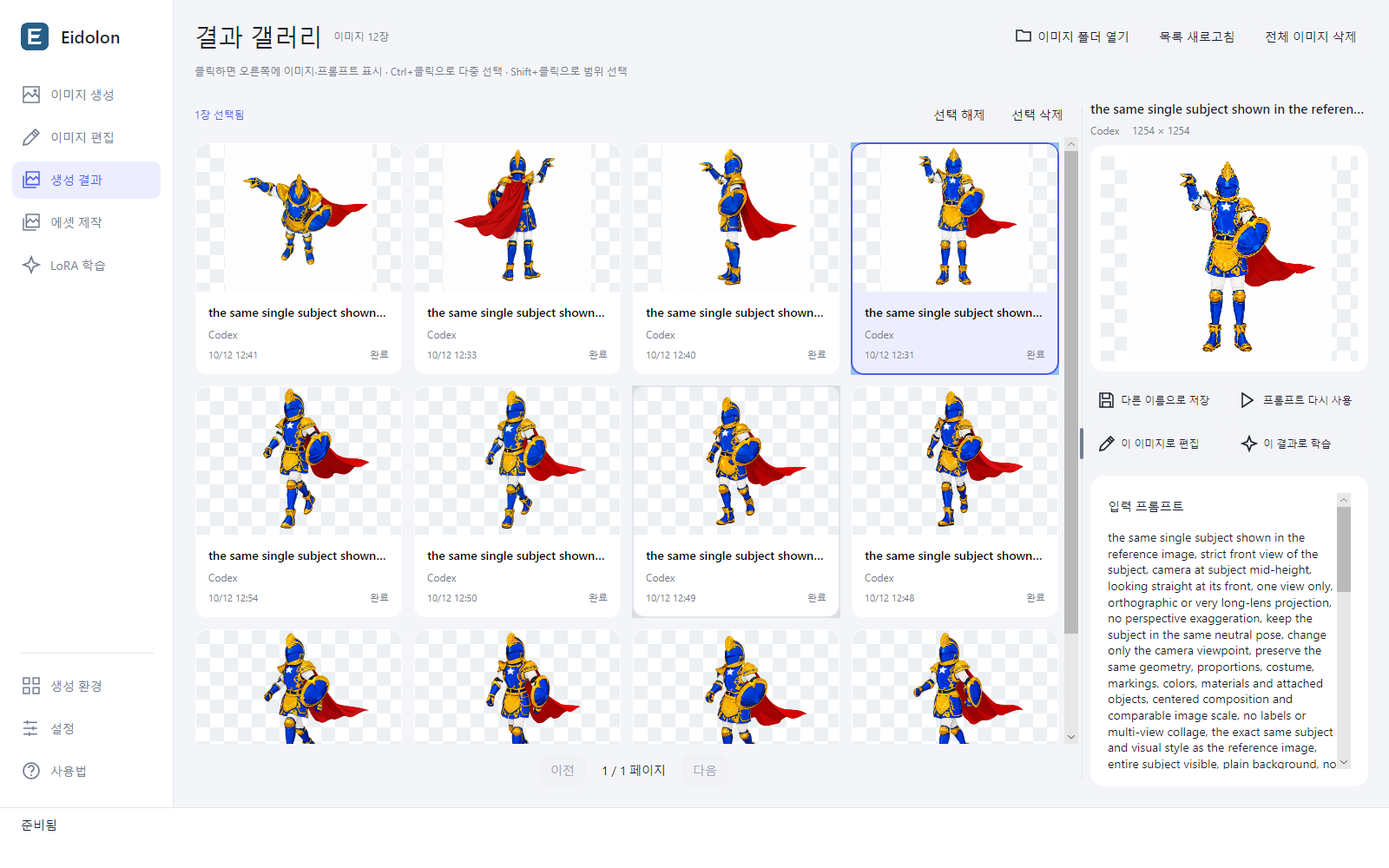
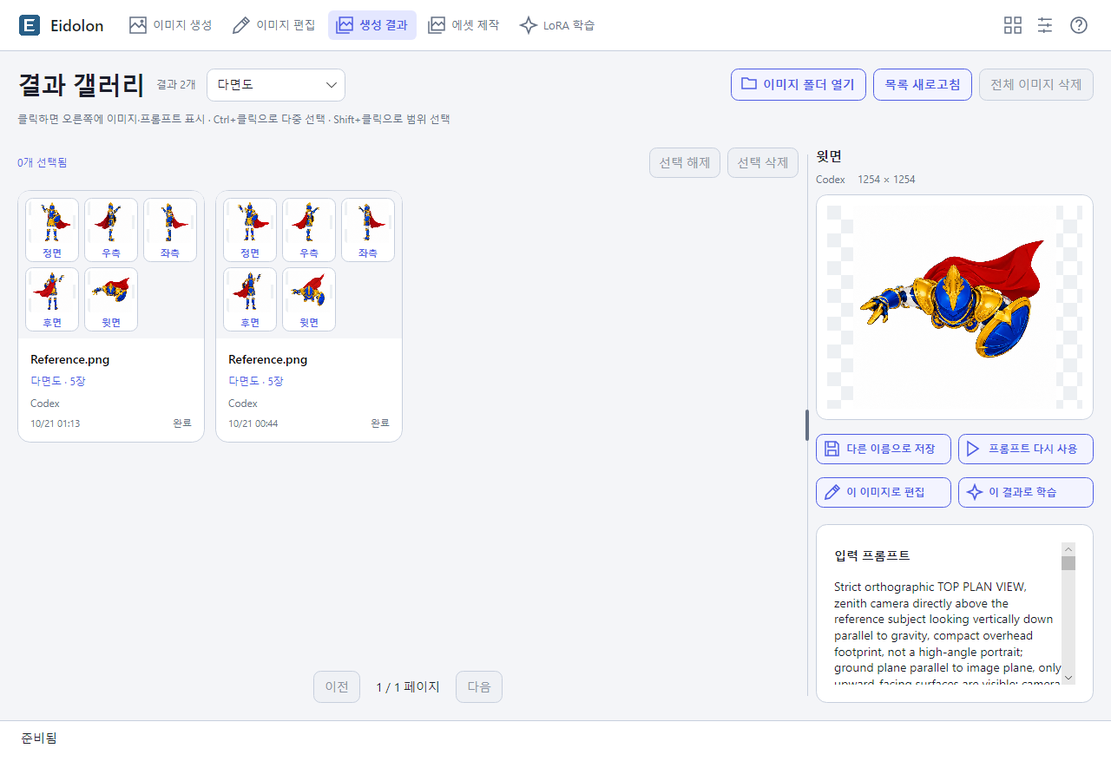
다면도 사용법과 품질 검증·아키텍처 문서 갱신

diff --git a/Docs/AssetCreation.md b/Docs/AssetCreation.md
@@ -1,87 +1,67 @@
-# 연관 이미지 에셋 제작
+# 다면도 에셋 제작
 
-에셋 제작 탭은 기준 이미지 한 장에서 스프라이트 프레임 또는 모델링 참고용 사면도 초안을 만든다. 생성 환경에 저장한 ComfyUI 또는 Codex 방식으로 기준 이미지와 항목별 설명을 전달한다. 대상의 외형 유지, 자연스러운 반복 동작, 시점 간 형태·치수의 정합성을 보장하는 기능은 아니다. 실제 3D 모델을 출력하지 않는다.
+에셋 제작은 기준 이미지 한 장에서 정면·우측·좌측·후면·윗면의 5방향 이미지를 만든다. 저장된 ComfyUI 또는 Codex 생성 방식과 공통 지침을 사용한다. 실제 3D 모델을 출력하지 않으며 이미지별 외형과 시점의 정확성은 생성 결과로 확인한다.
 
 ## 사용자 흐름
 
-처음 열 때는 사면도가 기본 선택된다. 왼쪽에서 기준 이미지를 선택하고 제작 종류를 고른다. 대상 설명과 동작 설명은 선택 입력이다. 설명 없이 사면도를 요청하면 기준 대상의 정면·측면·후면·윗면을 지정하고, 스프라이트를 요청하면 제자리 걷기의 연속 프레임을 지정한다. 생성 결과의 큰 미리보기에서 우클릭 메뉴의 에셋 제작을 선택하면 해당 이미지와 기존 설명을 가져와 제작 탭을 연다. 오른쪽에서 제작 묶음을 선택해 결과를 비교하고 내보낸다. 실행 버튼과 취소·대기열 동작은 입력 패널 하단에 두고 공통 상태 영역에는 상태·진행만 표시한다.
+기준 이미지를 고르고 선택적으로 대상 설명을 입력한다. 설명을 비우면 기준 이미지의 같은 대상을 사용한다. 생성 결과의 큰 이미지에서 에셋 제작으로 연결해 원본과 설명을 가져올 수도 있다. 제작 종류·동작·프레임 수·FPS는 입력하지 않는다.
 
-| 종류 | 추가 입력 | 결과 |
+| 순서 | 라벨 | 방향 |
 |---|---|---|
-| 스프라이트 애니메이션 | 프레임 수, FPS, 선택적 대상·동작·프레임별 포즈 설명 | 순서가 있는 프레임, 반복 재생 |
-| 사면도 | 선택적 대상 설명 | 정면·측면·후면·윗면 |
+| 1 | `front` | 정면, 대상 바로 앞 |
+| 2 | `right` | 우측, 대상 자신의 오른쪽에서 바라본 90도 측면 |
+| 3 | `left` | 좌측, 대상 자신의 왼쪽에서 바라본 90도 측면 |
+| 4 | `back` | 후면, 대상 바로 뒤의 180도 방향 |
+| 5 | `top` | 윗면, 바로 위에서 수직 아래로 바라본 방향 |
 
-사면도의 카메라 방향은 `AssetFramePromptBuilder`가 이미지별 프롬프트 맨 앞의 `Required camera view`로 명시한다. 사용자는 공통 대상 설명만 입력하며 방향은 입력하지 않아도 된다. 코드의 방향 지침 뒤에 대상 설명을 외형 설명으로 붙이고, 기준 이미지나 설명의 기존 시점보다 해당 이미지의 지정 방향을 적용하도록 지시한다.
+`AssetFramePromptBuilder`는 필요한 카메라 방향을 프롬프트 맨 앞에 놓는다. 같은 자세·형태·색상·장비 부착 위치를 유지하고 카메라만 이동하도록 요청한다. 좌우는 거울상 복사가 아니라 각 면의 특징과 가림 관계를 반영한다. 윗면은 기울어진 조감도와 구분한다.
 
-| 이미지 순서 | 명시하는 방향 | 카메라 위치 |
-|---|---|---|
-| 1 | `FRONT` | 대상 정면, 방위각 0도 |
-| 2 | `LEFT SIDE` | 대상의 왼쪽 측면, 정면에서 90도 |
-| 3 | `REAR` | 대상 후면, 정면에서 180도 |
-| 4 | `TOP` | 대상 바로 위, 수직 아래로 촬영 |
+윗면 생성은 해당 요청의 설정 사본에 눈높이·사선·정면 전신 구도를 피하는 제외 지침을 추가한다. 사용자 공통 지침과 묶음에 저장된 설정은 변경하지 않는다.
 
-프레임별 포즈 설명은 프레임 수만큼 한 줄씩 입력한다. 대상·동작·포즈 설명을 모두 비워 두면 기준 이미지의 외형을 참고해 걷기의 접지·하강·통과·상승 단계를 양쪽 다리에 순서대로 지정한다. 직접 입력한 포즈에는 자동 걷기 지침을 섞지 않는다. 배경 투명화·픽셀 아트·출력 크기·열 수는 접힌 상세 설정에 둔다. ComfyUI에서는 모델·LoRA·참고 강도를 함께 표시하고 기존 자산 선택을 공유한다. Codex에서는 체크포인트 없이 제작하며 모델·LoRA·참고 강도·시드 입력과 표시를 제공하지 않는다. 공통 지침·제외할 요소와 Codex 실행 모델은 저장한 생성 환경을 사용한다. 입력·편집 탭의 참고 이미지와 설명은 바꾸지 않는다.
+각 이미지를 선택해 비교하고 설명 수정 후 선택 재생성 또는 원본을 보존하는 이미지 교체를 할 수 있다. 미완성 이어 만들기는 완료 항목을 유지한다. 재생·FPS·항목 순서 변경은 제공하지 않는다. 생성·취소·대기열 동작은 입력 패널 하단에 두고 공통 상태 영역에는 상태와 진행만 표시한다.
 
-현재 기본값은 스프라이트 8프레임, 10 FPS, 참고 변경 강도 0.45, 출력 프레임 256×256, 시트 4열이다. 프레임 수는 2~32, FPS는 1~60, 프레임 한 변은 16~2048 px, 열 수는 1~32다. 사면도는 캐릭터·물체 구분 없이 항상 정면·측면·후면·윗면의 4항목이며 기본 출력 크기는 1024×1024다. UI에서 직접 바꾼 출력 크기는 상세 설정에서 확인한다. 참고 입력은 기존 32 MiB·4천만 픽셀 제한을 따른다. 출력 크기는 내보내기 크기이며 모델의 생성 해상도를 변경하지 않는다.
+배경 투명화·픽셀 아트·출력 크기·열 수는 상세 설정에서 선택한다. 기본 출력 크기는 1024×1024이며 16~2048 px다. 새 시트는 기본 5열이며 UI에서는 1~5열, MCP에서는 1~32열을 받되 실제 이미지 수를 넘는 열은 만들지 않는다. 참고 강도 기본값은 0.45이며 참고 이미지는 기존 32 MiB·4천만 픽셀 제한을 따른다. 출력 크기는 내보내기 크기이며 모델의 생성 해상도를 바꾸지 않는다.
 
-결과 목록에서 항목을 선택하면 생성 설명을 읽고 수정한 설명으로 선택 항목만 다시 만들 수 있다. 재생 중에는 선택 항목의 설명 편집·재생성·교체를 막는다. 스프라이트 순서를 앞뒤로 바꿀 수 있으며 재생은 이미지가 있는 항목을 순환한다. 탭을 벗어나면 재생을 멈춘다. 스프라이트 미리보기·재생·내보내기는 같은 대상 크기 보정을 사용하고 사면도 미리보기는 생성 원본을 표시한다. 픽셀 아트 미리보기와 내보내기는 nearest 보간을 사용한다. 원본 PNG와 생성 메타데이터는 보정으로 변경하지 않는다.
+ComfyUI에서는 기존 모델·LoRA 선택과 참고 강도를 사용한다. Codex에서는 로컬 모델·LoRA·참고 강도·시드를 제공하지 않고 저장한 실행 모델을 사용한다. 생성·편집 탭의 입력은 변경하지 않는다.
 
-새 스프라이트 요청은 참고 대상의 머리·몸 비율, 화면 내 크기·카메라 거리·시점·발 기준선과 구도를 유지하고 요청한 자세만 바꾸도록 지시한다. 각 항목은 한 프레임만 요청하며 콜라주·스프라이트 시트를 직접 생성하지 않는다. 이 지침은 외형·동작 일관성을 보장하는 별도 조건 모델을 대신하지 않는다.
+## 실행과 저장
 
-이미지 교체는 선택한 이미지의 사본을 작업 폴더에 PNG로 저장한다. EXIF 방향을 적용하고 사용자 원본을 보존한다. 기존 결과나 실패 전 이미지를 덮어쓰지 않는다. 누락되거나 읽을 수 없는 결과는 다시 만들거나 교체할 수 있다.
+기존 `StudioWorkPresenter → StudioWorkQueue → StudioService.GenerateAsync`를 사용하며 묶음 하나가 FIFO 요청 하나다. 다섯 이미지는 순서대로 생성한다. 설정·공통 지침·참고 이미지와 ComfyUI 자산·시드를 접수 시 고정하며 이어 만들기와 선택 재생성도 묶음의 저장 조건을 사용한다.
 
-## 실행과 기록
+`AssetCreationService`가 묶음 준비·생성·재생성·교체를 소유한다. `JobStore`는 `Jobs/<묶음 ID>/AssetCollection.json`과 `Reference.bin`을 보존하고 각 항목을 원본 Job·출력 PNG·생성 조건 JSON에 연결한다. 별도 큐·저장소·인덱스를 만들지 않는다.
 
-기존 `StudioWorkPresenter → StudioWorkQueue → StudioService.GenerateAsync` 경계를 재사용한다. 제작 묶음 하나가 FIFO 요청 하나이며 프레임은 순서대로 생성한다. 별도 생성 큐·GPU 사용권을 만들지 않는다. 생성 방식·실행 설정·공통 지침·기준 이미지를 요청 시 사본으로 고정하고 ComfyUI는 모델·LoRA·시드도 고정한다. 이어 만들기와 선택 재생성은 묶음에 저장한 조건을 사용하며 이후 생성 환경 변경에 영향받지 않는다. Codex는 각 항목을 기존 Codex 이미지 생성 경계로 전달하고 앱이 원본 PNG를 Job에 복사한 뒤 설정의 이미지 저장 폴더에 최종 결과와 생성 조건 JSON을 게시한다.
+새 묶음은 `FiveViews` 종류로 저장하며 5항목을 검증한다. 기존 `FourViews`는 4항목, `CharacterViews`·`ObjectViews`는 3항목과 저장된 라벨을 유지한다. 과거 스프라이트 기록·이미지는 디스크에서 삭제하지 않으며 현재 제작 목록과 작업 대상에서는 제외한다. 기존 종류의 숫자 값은 변경하지 않는다.
 
-`AssetCreationService`가 묶음 준비·항목 생성·재생성·교체를 소유한다. 저장은 기존 `JobStore`가 `Jobs/<묶음 ID>/AssetCollection.json`으로 처리한다. 기준 파일은 같은 작업 폴더의 `Reference.bin`에 보존한다. 생성 항목은 기존 Job 및 PNG·생성 조건 JSON과 연결하며 `SourceJobId`, 이미지 경로와 실제 결과 시드를 기록한다. 별도 결과 저장소나 인덱스를 만들지 않는다.
+일부 실패와 취소는 완성한 이미지와 기록을 유지한다. 이어 만들기는 완료 항목을 건너뛰고 누락 이미지만 다시 만든다. 선택 재생성이 실패해도 이전 이미지·원본 Job·실제 시드는 유지한다. 비정상 종료한 준비·실행 묶음은 다음 시작에서 중단 상태로 표시하고 자동 재개하지 않는다. Codex의 기존 DTO 시드 값 0은 실제 시드를 뜻하지 않는다.
 
-새 사면도 묶음은 `FourViews` 종류로 저장하고 4항목을 검증한다. 이전 캐릭터·물체 삼면도 묶음은 저장된 종류와 3항목을 유지해 조회·이어 만들기·선택 재생성·내보내기를 지원한다. 새 요청에서는 이전 종류를 선택하지 않는다.
+묶음 삭제는 확인 후 기존 유지 관리 경로에서 큐가 비었을 때만 수행한다. 미리보기 읽기를 종료하고 비트맵을 해제한 다음 `JobStore.DeleteAssetCollection`이 확인된 GUID 작업 폴더를 삭제한다. 출력 PNG·프롬프트 JSON·원본 생성 Job·내보낸 파일은 보존한다. 관리 루트·파일 소유권·링크 검사는 기존 경계를 따른다.
 
-일부 실패 시 그 항목에서 멈추고 완성한 이미지를 보존한다. 제작 취소는 기존 현재 요청 토큰을 전달하며 완료한 이미지와 기록을 유지한다. **미완성 이어 만들기**는 완료한 항목을 건너뛰며 누락된 이미지도 다시 생성한다. 손상된 이미지가 남아 있으면 선택 재생성·교체를 사용한다. 이어 만들기·선택 재생성·교체·순서 변경은 큐가 비었을 때 수행한다. 요청을 비우거나 앱을 종료하면 대기 중인 묶음을 취소 상태로 기록한다. 비정상 종료한 준비·실행 중 묶음은 다음 시작에서 중단 상태로 바꾸고 자동 재개하지 않는다.
+## 생성 결과의 묶음 표시
 
-제작 묶음 목록 옆의 **묶음 삭제**는 선택한 묶음을 확인 후 삭제한다. 공용 큐가 비었을 때 기존 유지 관리 경로로 실행하고 준비·실행 중인 묶음은 삭제하지 않는다. 미리보기 읽기·재생을 끝내고 비트맵을 해제한 뒤 기존 `JobStore.DeleteAssetCollection`이 해당 GUID 작업 폴더만 삭제한다. 묶음 기록·기준 이미지 사본·내부 교체 이미지가 삭제되며 설정 폴더의 생성 PNG·프롬프트 JSON·원본 생성 Job·내보낸 파일은 보존한다. 삭제 전에 관리 루트의 직계 하위 경로·파일 소유권·디렉터리와 파일의 링크 여부를 확인한다. 삭제 후 목록을 갱신하고 다음 묶음을 표시하며 목록이 비면 미리보기도 비운다.
+생성 결과에서 전체·일반 이미지·다면도 필터를 제공하고 다면도는 하나의 묶음 카드로 표시한다. 묶음 안에서는 방향별 최신 이미지를 선택하며 저장·재사용·편집·학습은 선택한 이미지 한 장에 적용한다. 부분 완료 묶음도 현재 출력 폴더에 실제로 있는 이미지를 표시한다. 묶음 카드를 선택 삭제 대상으로 확장하지 않는다.
 
-ComfyUI 선택 재생성은 새 시드를 사용할 수 있다. Codex는 시드를 적용하지 않으며 기존 DTO의 시드 필드는 0으로 기록한다. 실패하면 이전 이미지·원본 Job·실제 이미지 시드를 유지하면서 실패 코드·인자를 기록한다. 모든 항목에 이미지가 있으면 실패 전 이미지를 포함해 내보낼 수 있으며 검토는 사용자가 수행한다.
+기존 `JobStore`가 생성·재생성 후 PNG 옆 `GenerationMetadata`에 `AssetCollectionId`·`AssetFrameNumber`·`AssetFrameLabel`을 기록한다. 이 값은 기존 묶음 ID와 항목 번호·라벨이며 별도 ID·저장소를 만들지 않는다. PNG와 JSON을 함께 옮기면 Job 폴더 없이도 그룹을 표시할 수 있다. 기존 기록은 현재 출력 폴더에서 소유가 확인되는 이미지의 소속만 보충하며 원본 PNG와 기존 생성 조건은 유지한다.
 
-## 내보내기 계약
+## 내보내기
 
-출력 위치 아래 새 `Eidolon-Assets-<ID 일부>-<새 GUID>` 폴더를 만든다. 기존 파일을 덮어쓰지 않는다.
+모든 항목에 이미지가 있어야 한다. 출력 폴더 아래 새 `Eidolon-Assets-<ID 일부>-<새 GUID>` 폴더를 만들고 기존 파일을 덮어쓰지 않는다.
 
 | 파일 | 내용 |
 |---|---|
 | `Frames/001.png` 등 | 공통 크기로 정렬한 개별 PNG |
 | `Sources/001.png` 등 | 선택한 결과의 원본 사본 |
-| `Sources/001.json` 등 | 원본 옆 생성 조건 JSON이 있을 때 그 사본 |
-| `Sheet.png` | 검토한 항목 순서로 합성한 투명 PNG 시트 |
-| `Sheet.json` | 묶음 종류, 프레임 크기, 순서·라벨, 시트 좌표, 기준점, FPS와 원본 Job·시드 |
+| `Sources/001.json` 등 | 원본 옆에 생성 조건 JSON이 있을 때 그 사본 |
+| `Sheet.png` | 저장된 방향 순서로 합성한 투명 시트 |
+| `Sheet.json` | 종류·크기·순서·방향 라벨·시트 좌표·기준점·원본 Job·시드 |
 
-배경 투명화를 선택하면 ComfyUI는 기존 앱 배경 제거 서비스를 사용하고 Codex는 내장 이미지 생성에 실제 알파 출력을 요청한다. Codex 결과에는 앱 배경 제거를 다시 적용하지 않는다. 기존 배경을 가진 이미지와 교체 이미지의 배경을 내보내기에서 임의로 제거하지 않는다.
+미리보기는 원본을 표시한다. 내보내기는 알파 16 초과 영역을 경계로 측정하고 원본 캔버스의 긴 변에 대한 공통 배율로 각 이미지를 정규화해 하단 중앙에 놓는다. 픽셀 아트는 nearest 보간을 사용한다. 이 처리는 대상의 해부학적 기준점을 추적하거나 생성된 형태 차이를 복원하지 않는다.
 
-Core의 `AssetFrameRenderer`가 미리보기와 내보내기에 같은 알파 경계와 스프라이트 그리기 규칙을 제공한다. 알파가 16보다 큰 영역을 대상 경계로 잡고 투명 빈 이미지는 거부한다. 스프라이트는 각 대상 경계의 종횡비를 유지해 프레임 가로·세로의 90% 안에 최대한 맞추고 하단 중앙에 정렬한다. 원본 여백·해상도·대상 점유율이 달라도 같은 프레임 크기로 재생하고 내보낸다. 불투명 배경이 있으면 알파 경계로 대상을 분리할 수 없으므로 배경을 포함한 전체 영역을 맞춘다.
+시트 형식은 `Eidolon.AssetSheet`, 스키마 1을 유지한다. 좌표는 시트 좌상단 원점의 픽셀이며 기준점은 셀 안의 0.5/1.0이다. 새 다면도는 반복 재생하지 않는다. 시트는 왼쪽에서 오른쪽, 위에서 아래로 채우고 최대 면적은 6천4백만 픽셀이다. 실패·취소 시 작성된 사본 일부가 남을 수 있으며 재시도는 새 폴더를 만든다.
 
-사면도는 입력 캔버스의 긴 변을 기준으로 각 경계를 정규화한 뒤 전체 항목의 가장 큰 경계에 맞춘 공통 비율로 크기를 조절한다. 교체 이미지의 해상도가 달라도 같은 캔버스 단위로 처리한다. 각 대상은 프레임 하단 중앙에 정렬한다. 이 정렬은 발·손·몸통 등 해부학적 기준점을 추적하는 기능이 아니다. 스프라이트의 자세에 따른 경계 비율 변화나 생성된 형태 차이를 복원하지 않는다.
+ComfyUI 배경 투명화는 기존 배경 제거 서비스를 사용하고 Codex는 내장 이미지 생성의 실제 알파 출력을 요청한다. 내보내기는 원본 배경을 임의 제거하지 않는다.
 
-`Sheet.json` 형식은 `Eidolon.AssetSheet`, 스키마 버전은 1이다. `X/Y/Width/Height`는 시트 좌상단 원점의 픽셀 사각형이다. `PivotX/PivotY`는 각 셀 안의 정규화된 좌표 0.5/1.0이다. `FramesPerSecond`와 `Loop`는 스프라이트 재생 정보이며 사면도는 `Loop=false`다. 열은 왼쪽에서 오른쪽, 행은 위에서 아래로 채운다. 최대 시트 면적은 6천4백만 픽셀이며 초과하면 출력 크기를 줄여야 한다.
+## 책임과 품질
 
-실패·취소한 내보내기 폴더에는 작성한 사본 일부가 남을 수 있다. 완료 메타데이터는 PNG 저장 이후 작성한다. 원본·묶음 기록은 유지하고 재시도는 새 출력 폴더를 만든다.
+Core의 기존 요청·묶음 모델, `AssetCreationService`, `AssetFramePromptBuilder`, `JobStore`, 이미지 가져오기·시트 내보내기를 사용한다. App의 제작·미리보기 ViewModel은 입력·선택·명령과 비트맵 수명을 소유하며 `AssetImageLoader`는 제한된 크기로 미리보기를 읽는다. MCP는 같은 경로를 연결하며 도구 계약은 [MCP 연결](Mcp.md)이 소유한다.
 
-## 책임 경계
-
-| 위치 | 책임 |
-|---|---|
-| Core `Domain/Models/AssetCreation` | 요청·묶음·항목·시트 DTO |
-| Core `Application/AssetCreation` | 기존 생성 유스케이스를 호출하는 묶음 작업·진행, `AssetFramePromptBuilder`의 자동 시점·동작 지침 |
-| Core `Infrastructure/AssetCreation` | 이미지 사본 가져오기·공용 알파 경계·스프라이트 크기 보정·시트 합성 |
-| 기존 `JobStore` | 묶음 기록·조회·중단 처리·메타데이터 저장 |
-| App `ViewModels/AssetCreation` | 입력·큐 연결, 결과 선택·재생·비트맵 수명 |
-| App `Services/AssetCreation` | 크기를 제한한 이미지 읽기·미리보기 디코딩 |
-| App `Mcp/McpService.cs` | 같은 기능의 도구 정의·private 처리 메서드 |
-
-도구와 연결 계약은 [MCP 연결](Mcp.md)이 소유한다. 전송 라이브러리에는 이미지·에셋 업무 종속성을 추가하지 않는다.
-
-## 후속 품질 제어
-
-[TBD] ControlNet 등 포즈·구조 조건과 AnimateDiff 등 시간축 생성 경로의 채택, 필요한 모델·노드·설치·이용조건·GPU 요구 사항을 결정한다. 실제 비교에서 IP-Adapter Plus 단독 추가와 같은 캔버스 빈 칸 인페인트는 현재 모델의 연속 동작·외형을 함께 개선하지 못해 제품 경로에 채택하지 않았다. 현재 초안 생성 경로를 포즈·시간축 제어가 구현된 것처럼 표현하지 않는다.
-
-사용자가 요청한 2026-10-12 실제 생성 비교의 환경·판정·결과는 [에셋 제작 품질 검증](AssetCreationQuality.md)에 기록한다. 빌드 성공과 이미지 품질 판정을 구분한다.
+방향별 각도·좌우 비대칭·외형 유지·가림 관계를 실제 이미지로 판단한다. 프롬프트나 파일 개수·빌드 성공만으로 정확성 통과를 보고하지 않는다. 원본에서 보이지 않는 면의 세부 형태는 단일 이미지로 확정할 수 없다. 실제 생성 비교와 판정은 [에셋 제작 품질 검증](AssetCreationQuality.md)에 기록한다.

diff --git a/Docs/AssetCreationQuality.md b/Docs/AssetCreationQuality.md
@@ -1,61 +1,67 @@
-# 에셋 제작 품질 검증
+# 다면도 제작 품질 검증
 
-2026-10-12 사용자의 실제 생성 테스트 요청으로 수행한 비교다. 입력 조건·생성 완료·내보내기 성공과 외형·시점·동작 품질을 각각 판정한다. 다른 이미지나 모델 전체에 대한 품질 보증으로 사용하지 않는다.
+2026-10-21 사용자가 지정한 최근 다면도 기준 이미지로 5방향 생성과 생성 결과의 묶음 표시를 확인했다. 생성 완료·파일 계약·UI 동작과 시점·외형의 품질을 구분한다. 이 기록은 사용한 기준 이미지와 Codex 경로의 비교이며 다른 이미지·모델의 품질을 보증하지 않는다.
 
-이 비교 후 사면도 프롬프트를 `Required camera view`와 구체적인 카메라 위치가 맨 앞에 오도록 정리했다. 아래 실제 생성 결과는 이 후속 변경 전 지침의 결과이며, 후속 변경의 빌드·생성 테스트는 수행하지 않았다.
+## 입력과 실행 경로
 
-## 환경과 입력
+- 최근 실제 다면도 작업 `cc20ca2e2a2e45d8a1a5584261231a5a`의 기준 이미지를 그대로 사용했다. 파란색·금색 갑옷, 빨간 망토, 오른손을 든 자세와 왼팔 방패가 있는 캐릭터다. 계약 검증용 fixture는 기준에서 제외했다.
+- 기존 Codex 생성 조건을 복사하고 앱의 `StudioWorkQueue → AssetCreationService → StudioService → CodexImageEngine` 경로에서 총 20장의 PNG를 생성·비교했다. 별도 이미지 생성 API나 ComfyUI 경로로 전환하지 않았다.
+- 작업 데이터·설정·출력은 Git에서 제외된 `artifacts/quality-tests/20261021` 아래에 보관했다. 실제 사용자 설정·출력 폴더를 바꾸지 않았다.
+- 새 묶음 전체 생성과 방향별 선택 재생성을 구분해 확인했다. 최종 시트는 마지막으로 선택된 방향별 결과이며, 최초 자동 생성만으로 같은 품질이 나온다는 뜻은 아니다.
 
-- 로컬 모델: Illustrious-XL-v0.1, SDXL, ComfyUI v0.38.0, RTX 3060 Ti 8 GB.
-- 비교 경로: 기본 img2img, IP-Adapter Plus 추가, 기준 이미지 옆 빈 칸 인페인트, 앱의 기존 Codex 내장 이미지 생성.
[1 lines of base64/hex data omitted]
-- 모든 제작 요청의 사용자 `prompt`·`action`·프레임별 포즈 설명을 비웠다. 사면도는 네 시점, 스프라이트는 자동 제자리 걷기 8프레임이다. LoRA는 사용하지 않았다. 공통 지침은 `icon, centered, plain white background`, 제외할 요소는 `low quality`다.
-- 로컬 비교의 시드는 482713이다. Codex에는 시드·체크포인트·참고 변경 강도를 적용하지 않는다.
-- 생성은 실제 `AssetCreationService → StudioService`를 사용했다. 빈 칸 인페인트와 강화 사면도는 채택 전 비교용 워크플로를 별도 실행했다. UI 앱을 띄워 화면을 조작하는 검증은 수행하지 않았다.
+## 시점 보정과 관찰
 
-실제 사용자 설정·설치·결과 폴더를 보존하고 `artifacts/quality-tests/20261012` 아래 설정·Job·이미지·로그를 저장했다. ComfyUI는 테스트 전용 8195 포트로 실행하고 종료했다. 테스트 전용 강화 가중치는 해시 확인 후 사용하고 정리했다. 제품 설치에 노드·가중치를 추가하지 않았다.
+초기 결과에서 좌우가 같은 방향을 보거나 후면의 머리가 앞을 향하고 윗면이 높은 사선 시점에 머무는 문제를 확인했다. 방향별 카메라 지시, 화면상 방향과 가까운 면·가려지는 면을 구체화했다. 우측은 대상 자신의 오른쪽에서 바라보며 앞쪽이 화면 오른쪽, 좌측은 화면 왼쪽을 향하도록 구분했다.
 
-## 판정 기준
+윗면은 수직 아래를 보는 짧은 전용 지침으로 구성했다. 전신 정면·높은 사선 구도·가슴 앞면·길게 보이는 몸통과 다리를 제외하도록 해당 생성 요청의 설정 사본에만 지침을 추가했다. 묶음에 저장한 설정과 사용자의 공통 제외 지침은 유지했다.
 
-사면도는 대상이 유지되면서 정면·측면·후면·윗면이 구분되어야 한다. 측면이 정면 구도에 머물거나 윗면이 눈높이 구도를 반복하면 실패다. 3D 모델링 참고에 필요한 정확한 90도 투영은 별도로 확인한다.
+| 방향 | 최종 결과에서 확인한 내용 | 남은 한계 |
+|---|---|---|
+| 정면 | 앞면 얼굴 가리개·가슴 문양·장비와 손짓이 보임 | 세부 장식·대칭과 정확한 정면 투영은 보장하지 않음 |
+| 우측 | 앞쪽이 화면 오른쪽인 측면이며 반대쪽 방패가 작게 보임 | 두께·장식의 원본 일치는 보장하지 않음 |
+| 좌측 | 앞쪽이 화면 왼쪽인 측면이며 가까운 방패가 보임 | 손가락·갑옷 세부 형태에 편차가 남음 |
+| 후면 | 머리 뒤·등·망토가 보이고 앞면 얼굴이 나오지 않음 | 망토의 펼침과 굴곡이 다른 방향과 정확히 일치하지 않음 |
+| 윗면 | 머리 정수리·어깨 중심의 형태이며 얼굴·가슴 문양·긴 다리가 가려짐 | 실제 3D 형상에서 계산한 수직 투영은 아님 |
 
-스프라이트는 발·팔의 연속 동작이 있어야 하며, 같은 자세의 표면 변화만 있으면 실패다. 의상·장비·몸 비율·카메라·발 기준선의 변화와 마지막→첫 프레임 연결도 확인한다. 서로 다른 PNG가 생성된 사실만으로 통과시키지 않는다.
+방향 구분과 윗면의 가림 관계는 개선되었다. 단일 기준 이미지로 보이지 않는 면의 정답을 확인할 수 없으며, 정밀한 3D 모델링용 정투영이나 모든 방향의 형태 일치를 통과했다고 판정하지 않는다. 이번 작업에서 ComfyUI의 이미지 품질은 검증하지 않았다.
 
-## 실제 비교
+## 저장·내보내기 검증
 
-| 경로 | 조건·생성량 | 관찰 | 판정 |
-|---|---|---|---|
-| 기본 ComfyUI 참고 | 변경 강도 0.45, 사면도 4장·스프라이트 8장 | 원본의 손을 든 자세·시점이 거의 반복됨 | 시점·연속 동작 실패 |
-| IP-Adapter Plus | 변경 강도 0.45·외형 가중치 0.6, 스프라이트 8장 | 외형은 유지되지만 걷기 포즈가 나오지 않음 | 연속 동작 실패 |
-| IP-Adapter Plus | 변경 강도 0.85·외형 가중치 0.6, 사면도 4장·스프라이트 8장 | 장비·몸 형태가 달라지고 손을 든 구도가 계속 남음 | 외형·시점·연속 동작 실패 |
-| 같은 캔버스 빈 칸 인페인트 | IP-Adapter 가중치 0.35·종료 비율 0.7·denoise 1.0, 후면·걷기 각 1장 | 자세·시점이 바뀌지만 갑옷·망토·체형이 기준 대상과 크게 달라짐 | 대상 유지 실패 |
-| Codex 최초 자동 지침 | 사면도 4장·스프라이트 8장, 배경 투명화 끔 | 시점과 발 움직임은 바뀜. 측면·윗면의 각도 편차, 걷기 중 원본의 손짓으로 돌아오는 프레임을 확인 | 일부 개선, 전체 품질 통과 아님 |
-| Codex 시점 지침 보정 | 같은 묶음의 측면·윗면 재생성 | 측면이 옆 시점에 더 가까워짐. 윗면은 여전히 가슴 앞면이 보이는 높은 사선 시점 | 정확한 수직 윗면 기준 미달 |
-| Codex 걷기 양팔 지침 보정 | 새 묶음 8장, 배경 투명화 켬 | 원본의 손짓 복귀가 줄고 걷기 포즈가 나타남. 마지막 프레임에서 방패 누락을 확인 | 장비 유지 실패, 전체 자동 생성 품질 통과 아님 |
-| Codex 장비 유지 지침 보정 | 마지막 프레임 1장 선택 재생성 | 방패가 같은 팔에 유지됨. 8장 시트와 반복 GIF를 다시 작성함. 프레임 사이 비율·시점·디테일의 변화가 남음 | 장비 누락 보정, 안정된 연속성 기준에는 미달 |
+최종 묶음은 `3541a939cec24bf59ee999b367c52484`다. `FiveViews`와 `front → right → left → back → top` 순서를 확인했다. 내보낸 시트는 5120×1024, 항목별 1024×1024이며 `Loop=false`, `FramesPerSecond=0`이다. 원본·프레임·생성 조건·시트 manifest를 기존 내보내기 경로로 작성했다.
 
-장비의 같은 팔 부착·작은 팔 움직임·장비 가시성을 자동 지침에 추가하고 마지막 프레임을 선택 재생성해 방패 누락이 보정된 것을 확인했다. 선택 재생성으로 보정한 시트와 최초 자동 생성의 품질을 구분한다. 마지막 지침으로 8장 전체를 새로 생성하는 반복 품질 시험은 수행하지 않았다.
+스프라이트 애니메이션 제작 UI·새 요청·MCP 도구는 제거하고 과거 기록과 이미지 파일은 보존했다. 과거 4방향 자료는 항목 수 4와 기존 라벨을 유지하는 것을 확인했다.
 
-## 변경 판단
+## 생성 결과 묶음과 필터 검증
 
-IP-Adapter 자동 추가와 같은 캔버스 인페인트는 이 비교에서 연속 동작과 대상 유지가 함께 개선되지 않아 제품 경로에 채택하지 않았다. 기존 ComfyUI 참고 생성과 강도를 보존한다. 이 모델에서 프롬프트만으로 시점·동작을 바꾸는 경로는 품질 기준에 미달한다.
+기존 `JobStore`의 읽기 경로에서 다음을 확인했다. 기존 ID를 생성 조건 JSON에 연결하며 별도 저장소나 인덱스를 만들지 않았다.
 
-대상·동작 설명을 선택 입력으로 바꾸고 `AssetFramePromptBuilder`에서 네 시점과 시간순 걷기 지침을 구성한다. Codex 비교에서 발견한 손짓 복귀를 줄이기 위해 모든 걷기 단계에 양팔 위치와 낮은 손 위치를 명시하고 장비 유지 지침을 보강한다. 사용자가 직접 입력한 포즈에는 기본 걷기를 섞지 않는다. 정확한 윗면과 안정된 연속 프레임은 모델별 구조·시간축 제어 검증이 남아 있다. 모든 프레임을 한 번에 좋은 결과로 생성하는 기준에는 통과하지 못했다.
+| 확인 대상 | 실제 결과 |
+|---|---|
+| 기본 PNG 단위 조회 | 20장, 기존 MCP 조회 기본값 유지 |
+| 전체 필터 | 일반 이미지 7개 + 다면도 묶음 2개 = 9개 |
+| 일반 이미지 필터 | 7개, 묶음 제외 |
+| 다면도 필터 | 2개, 일반 이미지 제외 |
+| Job 폴더 없는 PNG·JSON 사본 조회 | 같은 다면도 묶음 2개 |
+| 페이지 크기 1 | 방향별 이미지가 페이지 사이에 분리되지 않음 |
+| 과거 4방향 자료 | 기존 4개 항목 유지 |
 
-## 검증과 로컬 결과
+소속을 확인할 수 없는 과거 이미지는 임의로 묶지 않았다. 새 생성·재생성의 이력은 같은 묶음에 연결하고 화면은 각 방향의 최신 결과를 표시한다.
 
-검증 프로그램은 이미지 설명·동작 없는 입력, 네 시점 순서, 2·4·8·16·32프레임의 시간 지침, 고정 시드, 사용자 포즈 유지, 기준 이미지 누락·포즈 수 오류, MCP의 제작 도구 필수 인자를 확인한다. 일반 이미지 생성 도구의 `prompt` 필수 계약을 유지한다. 생성 후 시트·프레임·manifest 내보내기도 실행한다.
+실제 `ResultsView`를 1280×900과 최소 창 1024×740에서 실행·캡처했다. 렌더링된 방향 버튼의 명령으로 윗면을 선택해 실제 미리보기 대상이 변경됨을 확인했다. 일반 이미지 필터, 빠른 필터 전환 후 최신 결과 적용, 묶음 선택 시 선택 삭제 비활성도 확인했다. 저장·재사용·편집·학습은 선택한 개별 이미지를 대상으로 유지하며 묶음 전체 파일 삭제는 추가하지 않았다.
 
-전체 솔루션 빌드는 경고·오류 0개로 통과했다. 최종 코드의 입력·MCP 계약 검증도 통과했다. 내보낸 사면도 라벨·시트 크기, 서로 다른 투명 스프라이트 8장, 실제 PNG 알파, 10 FPS·무한 반복 GIF를 검사했다. 이 검사는 기하학·동작 품질 통과를 의미하지 않는다.
+앱과 캡처 프로그램 빌드는 경고·오류 0개로 완료했다. 이 빌드 결과는 이미지의 기하학적 정확성을 뜻하지 않는다.
 
-로컬 결과는 Git에서 제외한 테스트 폴더에 보관한다.
+캡처 후 최신 일반 앱을 다시 실행하고 실제 창이 열린 것을 확인했다. 실행 중인 앱의 MCP 조회에서 `initialized=true`, `idle=true`, 대기 요청 0개와 빈 오류를 확인했으며, `eidolon_create_views` 제공과 `eidolon_create_sprite_animation` 제거를 확인했다.
 
-- [기준 이미지](../artifacts/quality-tests/20261012/Reference.png)
-- [기본 참고 사면도](../artifacts/quality-tests/20261012/baseline-views-sheet.png), [기본 참고 스프라이트](../artifacts/quality-tests/20261012/baseline-sprite-sheet.png)
-- [강도 0.45 강화 스프라이트](../artifacts/quality-tests/20261012/adapter-default-sprite-sheet.png), [강도 0.85 강화 스프라이트](../artifacts/quality-tests/20261012/candidate-sprite-sheet.png)
-- [강화 사면도](../artifacts/quality-tests/20261012/candidate-views-sheet.png)
-- [빈 칸 후면 비교](../artifacts/quality-tests/20261012/canvas-back-full.png), [빈 칸 걷기 비교](../artifacts/quality-tests/20261012/canvas-walk-full.png)
-- [Codex 보정 사면도](../artifacts/quality-tests/20261012/codex-views-sheet.png), [Codex 최초 걷기](../artifacts/quality-tests/20261012/codex-sprite-sheet.png)
-- [최종 걷기 시트](../artifacts/quality-tests/20261012/final-sprite-sheet.png), [최종 걷기 반복 재생](../artifacts/quality-tests/20261012/final-sprite.gif)
-- [선택 재생성 전 자동 걷기 시트](../artifacts/quality-tests/20261012/final-initial-sprite-sheet.png), [선택 재생성 전 반복 재생](../artifacts/quality-tests/20261012/final-initial-sprite.gif)
-- 테스트 입력·검증 코드: `artifacts/quality-tests/20261012/harness`와 `canvas_candidate.py`. 강화 경로의 시험 당시 소스는 같은 폴더의 `candidate-source`, 노드·가중치 리비전과 SHA-256은 `conditioning-source.json`에 보존한다.
+이 검증 뒤 제작 화면의 남은 프레임·동작 문구를 이미지·시점 기준으로 정리하고 Excel 원본에서 JSON·C#을 다시 생성했다. 영어 사용법 안내도 변환 결과가 잘리지 않도록 줄였다. 이 마지막 문구 수정 후에는 추가 빌드·실행·캡처를 수행하지 않았다. 이번 커밋·푸시 작업에서는 실행 파일 생성과 GitHub 릴리스 게시를 수행하지 않는다.
+
+## 로컬 결과
+
+- [기준 이미지](../artifacts/quality-tests/20261021/Reference.png)
+- [최종 5방향 시트](../artifacts/quality-tests/20261021/five-views-final.png)
+- [생성 결과 화면](../artifacts/quality-tests/20261021/views-results.png)
+- [최소 창 화면](../artifacts/quality-tests/20261021/views-results-minimum.png)
+- [묶음·필터 검사 결과](../artifacts/quality-tests/20261021/gallery-checks.json)
+- 실행 입력·검사 코드: `artifacts/quality-tests/20261021/harness`
+
+이전 2026-10-12 비교 자료는 기존 로컬 폴더에 보존한다. 스프라이트 생성 비교는 현재 제공 기능의 검증 결과로 사용하지 않는다.

diff --git a/Docs/WorkingRules.md b/Docs/WorkingRules.md
@@ -25,7 +25,7 @@
 
 ## 제품과 화면
 
-- 에셋 제작은 기준 이미지에서 스프라이트 프레임과 정면·측면·후면·윗면 사면도 초안을 만든다. 대상·동작 설명은 선택 입력이며 비우면 사면도의 네 시점과 스프라이트의 걷기 연속 포즈를 자동 지정한다. 직접 입력한 포즈에 기본 걷기를 섞지 않는다. 공통 모델·LoRA·지침은 요청 시 고정하고 기존 생성 큐·서비스·JobStore를 사용한다. 결과 비교·재생·선택 재생성·교체·순서와 내보내기는 기능별 ViewModel에서 처리한다. 단일 이미지 생성과 달리 제작 묶음에는 실행 영역의 취소를 제공하고 완료 이미지를 보존한다. 생성 방식의 변경은 실제 외형·시점·동작 비교로 판단하며 파일 생성·빌드 성공을 품질 통과로 대신하지 않는다. 현재 참고 생성 경로를 동작·외형·기하학적 정합성이 보장된 경로로 표현하지 않는다. 상세 계약은 [에셋 제작](AssetCreation.md)을 따른다.
+- 에셋 제작은 기준 이미지에서 정면·우측·좌측·후면·윗면의 5방향 다면도 초안을 만든다. 대상 설명은 선택 입력이며 비우면 기준 이미지의 대상을 사용한다. 공통 모델·LoRA·지침은 요청 시 고정하고 기존 생성 큐·서비스·JobStore를 사용한다. 결과 비교·선택 재생성·교체와 내보내기는 기능별 ViewModel에서 처리한다. 단일 이미지 생성과 달리 제작 묶음에는 실행 영역의 취소를 제공하고 완료 이미지를 보존한다. 생성 방식의 변경은 실제 외형·시점 비교로 판단하며 파일 생성·빌드 성공을 품질 통과로 대신하지 않는다. 현재 참고 생성 경로를 외형·기하학적 정합성이 보장된 경로로 표현하지 않는다. 상세 계약은 [에셋 제작](AssetCreation.md)을 따른다.
 - MCP 전송·프로토콜은 `Eidolon.Mcp` 라이브러리가 `HttpListener`로 제공한다. 외부 NuGet 제한에서 Dignus는 예외로 허용하며 App/Core 종속성은 두지 않는다. JSON-RPC 메서드별 컨트롤러는 라이브러리의 `Controllers`에 나누고 Dignus DI의 `LifeScope.Transient`로 등록해 요청·알림마다 새 인스턴스를 resolve한다. 서버 구성 시 컨트롤러 인스턴스를 만들거나 공유하지 않으며 옵션·도구 목록·콜백은 서버 수명의 기존 인스턴스를 주입한다. 앱 도구는 `Eidolon.App/Mcp/McpService.cs`의 `CreateTools()`에서 등록하고 같은 클래스의 private 처리 메서드로 연결한다. 서버 수명은 기존 App 조립 경계에서 연결하고 생성 큐·자산·JobStore를 재사용한다. 실제 도구 범위와 연결 계약은 [MCP 연결](Mcp.md)이 소유한다.
 
 - 기본 생성 경험의 핵심 입력은 자연어 프롬프트이며 생성 탭에서 참고 이미지를 선택적으로 추가한다. 이미지 편집 탭은 기존 이미지의 그림체 변경을 담당한다. 기본 모델 계열은 SDXL이며 세부 파라미터는 내부 프리셋이 소유한다.
@@ -52,7 +52,7 @@
 - 생성의 모델과 LoRA 선택은 입력 패널 상단에 연속 배치한다. 모델 선택 뒤 호환 LoRA를 바로 고를 수 있어야 하며 프롬프트·생성 지침·실행 버튼으로 두 선택 영역을 분리하지 않는다. LoRA는 스크롤 목록의 행을 눌러 적용·해제하고 여러 항목을 함께 적용한다. 목록이 5개 이상이거나 검색어가 있을 때 이름·파일명·호출 단어 검색을 제공한다. 기존 `AssetItem.IsSelected`가 선택을 소유하고 검색은 선택을 바꾸지 않는다. 적용 수는 선택했을 때만 표시하고 전체 적용 이름과 앞에 붙는 호출 단어는 도움말로 제공한다.
 - 생성 입력의 모델·LoRA는 위쪽 도구 모음에 배치한다. 프롬프트와 요청 버튼은 캔버스 아래에서 미리보기와 같은 너비로 두고 참고 이미지·시드·배경 옵션·읽기 전용 지침은 오른쪽 패널에 모은다. 이미지 편집은 같은 모델·LoRA·시드·배경·실행 패널을 사용하고 생성과 동일하게 오른쪽 옵션 패널에 참고 이미지·강도를 배치한다. 두 작업의 구분은 상단 탐색 메뉴가 소유하고 중복 모드 선택 목록은 두지 않는다. 시드는 오른쪽 옵션 패널에서 자동 생성 체크와 숫자 입력을 바로 조작하고 자동 생성 중에는 숫자 입력을 비활성화한다. 설정의 생성 지침·제외할 요소는 같은 패널에 읽기 전용 텍스트로 바로 표시해 읽고 복사한다. 시드·공통 지침에 팝업이나 중첩 스크롤을 두지 않는다. 요청·대기열 동작은 스크롤 밖의 같은 패널 하단에 고정한다. 엔진 준비와 유지 관리 중에도 다음 입력을 작성하고 요청 추가는 기존 `CanQueue` 조건으로 제한한다. 같은 작업에서 함께 바꾸는 항목은 한 영역에 모으고 주요 동작을 찾기 위해 위아래로 이동하게 만들지 않는다.
 - 생성 시드는 기본 자동 생성과 직접 지정을 지원한다. 큐 추가 시 실제 값을 고정해 요청 영역에 표시하고 미리보기와 결과 정보는 해당 이미지의 저장된 시드를 표시한다. 직접 지정한 시드는 정수·범위 검증을 통과해야 생성할 수 있다. 결과 재사용은 저장된 시드도 복원하며 이후 입력 변경이 대기 요청의 시드에 영향을 주지 않게 한다.
-- 생성 결과는 현재 출력 폴더의 실제 PNG를 기준으로 카드 갤러리를 제공한다. 한 페이지에 12장씩 비동기로 조회하고 해당 페이지의 같은 이름의 프롬프트 JSON과 축소 이미지만 로드한다. PNG가 없으면 표시하지 않으며 JSON이 없거나 손상되어도 이미지 조회는 유지한다. 페이지 변경·종료 시 이미지 메모리를 해제하고 늦게 끝난 요청은 반영하지 않는다. 상단에 이미지 수·폴더 열기·새로고침·전체 삭제, 하단에 페이지 이동을 둔다.
+- 생성 결과는 현재 출력 폴더의 실제 PNG를 기준으로 카드 갤러리를 제공한다. 일반 이미지와 다면도 묶음을 전체·일반 이미지·다면도로 필터링하고 정렬·그룹·필터를 적용한 뒤 한 페이지에 12개 결과를 조회한다. 그룹 판단은 같은 이름의 프롬프트 JSON에 저장된 기존 묶음 ID·방향 번호·라벨을 사용하며 축소 이미지는 현재 페이지에서만 읽는다. PNG가 없으면 표시하지 않으며 JSON이 없거나 손상되어도 이미지 조회는 유지한다. 페이지 변경·종료 시 이미지 메모리를 해제하고 늦게 끝난 요청은 반영하지 않는다. 상단에 결과 수·종류 필터·폴더 열기·새로고침·기존 전체 삭제, 하단에 페이지 이동을 둔다. 묶음 안에서는 방향별 최신 이미지를 골라 보고 저장·재사용·편집·학습은 선택한 개별 이미지에 적용한다. 필터 변경은 첫 페이지로 돌아가며 묶음 카드는 선택 삭제 대상으로 확장하지 않는다.
 - 결과 화면은 왼쪽 카드 갤러리를 주영역으로 두고 오른쪽 이미지·프롬프트 패널의 초기 너비와 이미지 높이를 제한한다. 좌우 사이의 보이는 손잡이를 드래그해 패널 너비를 조절하고 갤러리의 열 수는 조절한 너비에 맞춘다. 클릭과 키보드 초점 이동으로 오른쪽 내용을 바로 갱신하며 갤러리의 페이지·스크롤을 유지한다. 갤러리는 클릭으로 한 장, Ctrl+클릭으로 개별 추가·해제, Shift+클릭으로 범위를 선택하고 다중 선택 삭제를 제공한다. 체크 표시 없이 얇은 강조 테두리로 선택을 표시한다. 선택 수와 선택 해제·선택 삭제는 갤러리 상단에 두며 선택은 현재 페이지에 적용한다. 오른쪽은 마지막으로 클릭하거나 키보드로 이동한 이미지를 표시하고 선택 삭제는 선택한 이미지들에 적용한다. 카드 높이는 이미지와 설명에 맞추고 남은 화면 높이까지 늘리지 않으며 이미지 전체를 표시한다. 열 수는 왼쪽 갤러리의 실제 너비로 정한다. 오른쪽 이미지 위에 모델·시드·해상도, 아래에 저장·프롬프트 재사용·이미지 편집·학습 연결을 동일한 높이와 아이콘 간격의 2열 버튼으로 고정하고 그 아래 스크롤 영역의 첫 내용으로 입력 프롬프트·적용 지침·제외할 요소를 표시한다. 재사용은 JSON의 입력·사용 가능한 모델과 LoRA·배경 옵션·시드를 복원하고 누락된 자산을 알리며 생성 지침·제외할 요소는 현재 설정을 사용한다.
 - 언어와 라이트·블랙 테마는 설정에서 즉시 적용·저장한다. 두 테마는 기존 App 리소스 키를 사용하고 상단 탐색·작업 패널·주요 실행의 시각적 구분을 동일하게 유지한다. 색상은 아키텍처의 현재 화면 구성 기준을 따른다.
 - 설정은 왼쪽의 일반·엔진 설치·연결·MCP 연결·앱 업데이트 메뉴에서 선택한 내용만 오른쪽에 표시한다. 일반의 이미지 저장 폴더·테마·언어와 저장 버튼·적용 시점 안내는 같은 입력 영역에 모으고 로그·데이터 폴더 열기는 별도로 배치한다. MCP 시작·정지와 업데이트는 각 화면의 실행 버튼을 사용한다. 생성 환경도 왼쪽의 생성 방식·공통 생성 지침·모델·LoRA 메뉴에서 선택한 내용만 표시한다. 생성 방식에는 실행 방식·Codex 설정을, 공통 생성 지침에는 지침·제외할 요소·프리셋을 모은다. 두 입력 화면은 기존 생성 환경 저장 명령으로 함께 확정하고 모델·LoRA 메뉴는 기존 자산별 관리 명령을 사용한다. 입력을 접기·펼치기로 숨기지 않는다. 프리셋 선택은 지침 위에, 이름·추가·수정·삭제는 지침 아래의 별도 관리 영역에 함께 표시한다. 관리 버튼은 내용 너비로 모으고 추가를 강조하며 좁은 창에서는 줄바꿈한다. 생성 방식과 공통 생성 지침 화면의 저장 버튼·저장 범위·적용 시점 안내는 스크롤 밖 실행 영역에 유지하며 앱 공통 상태·진행 영역과 분리한다.

diff --git a/README.en.md b/README.en.md
@@ -4,7 +4,7 @@
 
 **Eidolon is a desktop app for generating and editing images, creating game assets, and training LoRAs from prompts and reference images.**
 
-Choose ComfyUI or your installed Codex, then work with shared generation guidelines, saved results, sprites, and four-view sheets in one app.
+Choose ComfyUI or your installed Codex, then work with shared generation guidelines, saved results and five-view sheets in one app.
 
 ## Download
 
@@ -28,9 +28,7 @@ Select an image in the gallery to read its prompt and generation settings. Save 
 
 ### Asset creation
 
-![Eidolon Asset creation screen with a reference image, action, frame count and FPS settings, and knight sprite frame previews](Docs/images/assets.png)
-
-Generate sprite frames in sequence from a reference image, then compare and play the selected frames. Regenerate, replace, reorder, and export them from the same screen.
+Generate front, right, left, back, and top views from a reference image, then compare them. Regenerate, replace, and export individual images from the same screen.
 
 ### LoRA training
 
@@ -38,27 +36,27 @@ Generate sprite frames in sequence from a reference image, then compare and play
 
 Add training images to the white or black background lists. Review the images, name and trigger, then configure training. The app prepares the dataset automatically.
 
-All screenshots capture the redesigned Windows app at 1600×1000 using Korean and the light theme, including the left navigation and shared bottom status area.
+Screenshots capture the actual Windows app using Korean and the light theme, including the left navigation and shared bottom status area.
 
 ## Core experience
 
 - **Prompt-based generation**: Describe your subject and optionally add a reference image.
 - **Shared style guidelines**: Save guidelines, exclusions, and presets for both generation and editing.
 - **Continue from a result**: Inspect generation settings, reuse a prompt, edit an image, or use it for training or asset creation.
-- **Game assets**: Create sprite frames or front, side, back, and top views from a reference, then compare and export them.
+- **Game assets**: Create front, right, left, back, and top views from a reference, then compare and export them.
 - **Train with your images**: Let the app prepare a dataset and use the completed LoRA when generating.
 
 ## Features
 
 - **Generation and editing**: ComfyUI or Codex, reference images, source-image editing, and transparent backgrounds
-- **Results**: PNG gallery, saved prompts and settings, reuse, export, and selected-image deletion
-- **Sprites and four views**: Playback, reordering, per-item regeneration and replacement, resume, and PNG, sheet, coordinate, and FPS JSON export
+- **Results**: Image and multi-view filters, grouped views with per-direction preview, saved prompts and settings, reuse, export, and selected-image deletion
+- **Multiple views**: Five directions, per-item regeneration and replacement, resume, and PNG, sheet, and coordinate JSON export
 - **Models and LoRAs**: safetensors folder scanning, SD 1.5 and SDXL families, compatible LoRA selection, and automatic trigger words
 - **LoRA training**: Automatic dataset preparation, new or continued training, quick settings, cancellation, and estimated time remaining
 - **Jobs**: A shared queue, additional requests while running, cancellation, pending-request cleanup, and preserved originals and logs
 - **Settings and connections**: Korean and English, light and black themes, output folder, external ComfyUI servers, and MCP
 
-Sprites and four views are reference-based drafts. Review generated motion, appearance, and viewpoints for your use case. The current distribution targets Windows x64.
+Multiple views are reference-based drafts. Review generated appearance and viewpoints for your use case. The current distribution targets Windows x64.
 
 ## Run
 
@@ -76,7 +74,7 @@ Settings and job data are stored under `%LOCALAPPDATA%\Eidolon`. Replacing the e
 
 **Edit** takes a source image and edit instructions, then saves a new image. **Results** lets you reuse a prompt, edit, or train from an image. Right-click the large result image to send it to asset creation.
 
-**Asset creation** makes sprites using an action, frame count, and FPS, or four views covering front, side, back, and top. Preview and export use the same size normalization. Deleting a collection removes its record and internal working files while preserving generated PNGs, prompt JSON, and exported files.
+**Asset creation** makes five views covering front, right, left, back, and top. Preview shows the generated originals, while export fits them to a shared output size. Deleting a collection removes its record and internal working files while preserving generated PNGs, prompt JSON, and exported files.
 
 **LoRA training** guides you through image selection, name and trigger review, and training settings. It requires a local ComfyUI runtime, a base model, and an NVIDIA GPU. A saved LoRA trigger is applied automatically when generating. Local checkpoints, LoRAs, seeds, and change strength do not apply to Codex generation.
 

diff --git a/Docs/Usage.md b/Docs/Usage.md
@@ -2,7 +2,7 @@
 
 [English overview](../README.en.md) · [다운로드와 제품 소개](../README.md)
 
-이미지 생성·편집부터 결과 관리, 스프라이트·사면도 제작과 LoRA 학습까지 한곳에서 진행합니다. 앱의 **사용법** 화면에서도 한국어·영어 안내와 해당 작업 화면으로 이동하는 버튼을 제공합니다.
+이미지 생성·편집부터 결과 관리, 다면도 제작과 LoRA 학습까지 한곳에서 진행합니다. 앱의 **사용법** 화면에서도 한국어·영어 안내와 해당 작업 화면으로 이동하는 버튼을 제공합니다.
 
 ## 처음 시작하기
 
@@ -49,7 +49,9 @@ Codex에는 원본과 수정 설명을 함께 전달하며 로컬 모델·LoRA·
 
 ## 생성 결과 관리
 
-**생성 결과**에서 이미지를 선택하면 저장된 프롬프트·모델·시드·해상도와 생성 조건을 확인할 수 있습니다. 프롬프트 JSON이 없어도 이미지는 볼 수 있지만 생성 조건 재사용은 제한됩니다.
+**생성 결과**의 **전체·일반 이미지·다면도** 필터로 원하는 결과를 고릅니다. 다면도는 묶음 카드로 표시하며 묶음 안에서 방향을 선택하면 저장·재사용·편집·학습은 그 이미지 한 장에 적용됩니다. 묶음 카드는 선택 삭제 대상에 포함하지 않습니다.
+
+이미지를 선택하면 저장된 프롬프트·모델·시드·해상도와 생성 조건을 확인할 수 있습니다. 프롬프트 JSON이 없어도 이미지는 볼 수 있지만 생성 조건 재사용은 제한됩니다.
 
 - **저장**: 선택 이미지를 원하는 경로로 내보냅니다.
 - **프롬프트 재사용**: 설명과 저장된 생성 조건을 다시 가져옵니다. 공통 생성 지침은 현재 설정을 유지합니다.
@@ -59,14 +61,14 @@ Codex에는 원본과 수정 설명을 함께 전달하며 로컬 모델·LoRA·
 
 Ctrl·Shift로 여러 이미지를 선택해 삭제할 수 있습니다. 이미지 삭제는 PNG와 같은 이름의 프롬프트 JSON을 함께 삭제하며 원본 Job은 보존합니다. **이미지 폴더 열기**로 실제 저장 위치를 확인하세요.
 
-## 스프라이트·사면도 제작
+## 다면도 제작
 
 1. **에셋 제작**에서 기준 이미지와 대상 설명을 입력합니다.
-2. 스프라이트는 동작·프레임 수·재생 속도를 정합니다. 사면도는 정면·측면·후면·윗면을 만듭니다.
-3. 생성된 프레임을 재생·비교하고 필요한 항목만 재생성하거나 교체합니다. 스프라이트는 순서도 바꿀 수 있습니다.
-4. 개별 PNG·시트·좌표·기준점·FPS JSON과 원본 사본을 내보냅니다.
+2. 같은 대상의 정면·우측·좌측·후면·윗면을 순서대로 만듭니다. 대상 설명은 생략할 수 있습니다.
+3. 생성된 다섯 이미지를 비교하고 필요한 항목만 재생성하거나 교체합니다. 우측·좌측은 대상 자신의 좌우를 기준으로 합니다.
+4. 개별 PNG·시트·좌표·기준점 JSON과 원본 사본을 내보냅니다.
 
-재생 속도는 초당 보여주는 프레임 수입니다. 프레임 8장을 8 FPS로 재생하면 한 순환에 1초가 걸립니다. 미리보기와 내보내기는 같은 크기 보정을 사용합니다.
+미리보기는 생성 원본을 표시합니다. 내보내기는 공통 출력 크기에 맞추며 방향 라벨과 순서를 보존합니다.
 
 미완성 묶음은 저장한 생성 방식과 설정으로 이어 만들 수 있습니다. **묶음 삭제**는 제작 기록과 내부 작업 파일만 삭제하며 생성 PNG·프롬프트 JSON·원본 생성 작업·내보낸 파일은 보존합니다.
 
